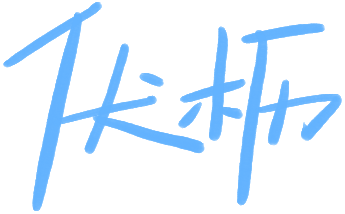
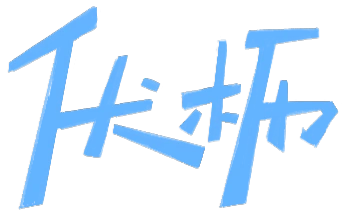
feat: update title underline style

Changed region(s): [[0.0, 0.0, 1.0, 1.0], [0.3188, 0.1963, 0.3768, 0.3925]]

diff --git a/src/utils/setting-utils.ts b/src/utils/setting-utils.ts
@@ -52,10 +52,32 @@ export function applyThemeToDocument(theme: LIGHT_DARK_MODE) {
 }
 
 export function setTheme(theme: LIGHT_DARK_MODE): void {
+	// 允许用户切换主题，即使主题固定
 	localStorage.setItem("theme", theme);
 	applyThemeToDocument(theme);
 }
 
+export function isThemeFixed(): boolean {
+	const configCarrier = document.getElementById("config-carrier");
+	return configCarrier?.dataset.themeFixed === "true";
+}
+
+export function getDefaultThemeFromConfig(): LIGHT_DARK_MODE {
+	const configCarrier = document.getElementById("config-carrier");
+	return (
+		(configCarrier?.dataset.themeDefault as LIGHT_DARK_MODE) || DEFAULT_THEME
+	);
+}
+
 export function getStoredTheme(): LIGHT_DARK_MODE {
-	return (localStorage.getItem("theme") as LIGHT_DARK_MODE) || DEFAULT_THEME;
+	// 优先使用 localStorage 中的值（如果存在）
+	// 如果主题固定且没有存储值，使用配置中的默认主题
+	const stored = localStorage.getItem("theme") as LIGHT_DARK_MODE;
+	if (stored) {
+		return stored;
+	}
+	if (isThemeFixed()) {
+		return getDefaultThemeFromConfig();
+	}
+	return DEFAULT_THEME;
 }

diff --git a/src/config.ts b/src/config.ts
@@ -1,3 +1,4 @@
+import { DARK_MODE } from "./constants/constants";
 import type {
 	ExpressiveCodeConfig,
 	LicenseConfig,
@@ -17,6 +18,10 @@ export const siteConfig: SiteConfig = {
 		hue: 250, // Default hue for the theme color, from 0 to 360. e.g. red: 0, teal: 200, cyan: 250, pink: 345
 		fixed: true, // Hide the theme color picker for visitors
 	},
+	theme: {
+		fixed: true, // 是否固定主题模式（固定后用户无法切换）
+		default: DARK_MODE, // 默认主题模式：'light' | 'dark' | 'auto'
+	},
 	banner: {
 		enable: true,
 		src: "assets/images/banner.gif", // Relative to the /src directory. Relative to the /public directory if it starts with '/'
@@ -33,17 +38,17 @@ export const siteConfig: SiteConfig = {
 	},
 	twikoo: {
 		enable: true, // Enable Twikoo comment system
-		envId: 'https://twikoo.leehenry.top/', // Replace with your Vercel deployment URL
-		region: '', // Optional: Twikoo region (留空即可)
-		lang: 'zh-CN', // Language for Twikoo
+		envId: "https://twikoo.leehenry.top/", // Replace with your Vercel deployment URL
+		region: "", // Optional: Twikoo region (留空即可)
+		lang: "zh-CN", // Language for Twikoo
 	},
 	favicon: [
 		// Leave this array empty to use the default favicon
 		{
-		  src: '/favicon/leaf-solid.svg',    // Path of the favicon, relative to the /public directory
-		//   theme: 'light',              // (Optional) Either 'light' or 'dark', set only if you have different favicons for light and dark mode
-		//   sizes: '32x32',              // (Optional) Size of the favicon, set only if you have favicons of different sizes
-		}
+			src: "/favicon/leaf-solid.svg", // Path of the favicon, relative to the /public directory
+			//   theme: 'light',              // (Optional) Either 'light' or 'dark', set only if you have different favicons for light and dark mode
+			//   sizes: '32x32',              // (Optional) Size of the favicon, set only if you have favicons of different sizes
+		},
 	],
 };
 

diff --git a/src/components/LightDarkSwitch.svelte b/src/components/LightDarkSwitch.svelte
@@ -6,6 +6,7 @@ import Icon from "@iconify/svelte";
 import {
 	applyThemeToDocument,
 	getStoredTheme,
+	isThemeFixed,
 	setTheme,
 } from "@utils/setting-utils.ts";
 import { onMount } from "svelte";
@@ -13,8 +14,10 @@ import type { LIGHT_DARK_MODE } from "@/types/config.ts";
 
 const seq: LIGHT_DARK_MODE[] = [LIGHT_MODE, DARK_MODE, AUTO_MODE];
 let mode: LIGHT_DARK_MODE = $state(AUTO_MODE);
+let themeFixed: boolean = $state(false);
 
 onMount(() => {
+	themeFixed = isThemeFixed();
 	mode = getStoredTheme();
 	const darkModePreference = window.matchMedia("(prefers-color-scheme: dark)");
 	const changeThemeWhenSchemeChanged: Parameters<
@@ -37,6 +40,7 @@ function switchScheme(newMode: LIGHT_DARK_MODE) {
 }
 
 function toggleScheme() {
+	// 允许用户切换主题，即使主题固定
 	let i = 0;
 	for (; i < seq.length; i++) {
 		if (seq[i] === mode) {

diff --git a/src/types/config.ts b/src/types/config.ts
@@ -20,6 +20,10 @@ export type SiteConfig = {
 		hue: number;
 		fixed: boolean;
 	};
+	theme: {
+		fixed: boolean; // 是否固定主题模式
+		default: LIGHT_DARK_MODE; // 默认主题模式
+	};
 	banner: {
 		enable: boolean;
 		src: string;

diff --git a/src/constants/constants.ts b/src/constants/constants.ts
@@ -3,7 +3,7 @@ export const PAGE_SIZE = 8;
 export const LIGHT_MODE = "light",
 	DARK_MODE = "dark",
 	AUTO_MODE = "auto";
-export const DEFAULT_THEME = AUTO_MODE;
+export const DEFAULT_THEME = DARK_MODE;
 
 // Banner height unit: vh
 export const BANNER_HEIGHT = 35;